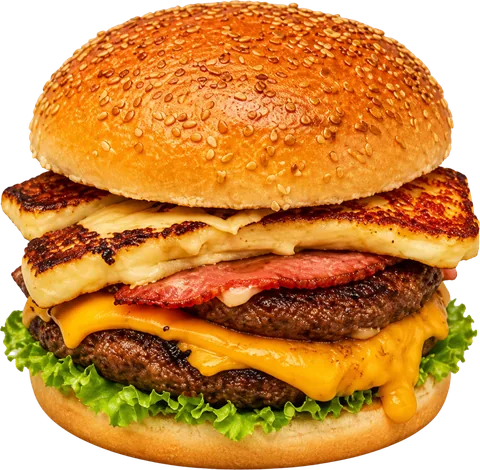
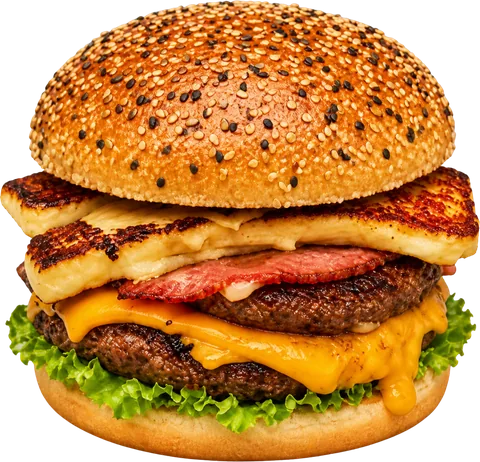
Pão com gergelim misto e Caixa Top com anéis de cebola
- Queijo Coalho e X-Montanha refeitos com o pão novo da Bel: gergelim
  misto, branco e preto, igual ao da Caixa Top.
- Caixa Top em "Como pedir": o compartimento do meio, que parecia
  salgadinho, agora mostra anéis de cebola.

Claude-Session: https://claude.ai/code/session_01JFe72xvUDKBtHamWgCjFaN

diff --git a/src/config.ts b/src/config.ts
@@ -43,10 +43,10 @@ export const site = {
 // steam: true mostra vapor subindo do lanche (só nos hambúrgueres).
 export const heroSlides = [
   { file: 'mega30', width: 900, height: 671, alt: 'Mega Hot Dog de 30cm: dois cachorros-quentes com calabresa, ovo de codorna, azeitona, milho e ervilha' },
-  { file: 'queijo-coalho', width: 900, height: 881, steam: true, alt: 'Hambúrguer com queijo coalho grelhado, bacon, cheddar e alface' },
+  { file: 'queijo-coalho', width: 900, height: 866, steam: true, alt: 'Hambúrguer com queijo coalho grelhado, bacon, cheddar e alface' },
   { file: 'combo-kids', width: 900, height: 823, alt: 'Combo Kids: hambúrguer, batata frita, refrigerante Guaracamp e bala Fini' },
   { file: 'polenguinho', width: 894, height: 900, steam: true, alt: 'Hambúrguer com bacon, calabresa, presunto, queijo, tomate, alface e batata palha' },
-  { file: 'montanha', width: 761, height: 900, steam: true, alt: 'X-Montanha: três hambúrgueres com ovo, queijo coalho e presunto' },
+  { file: 'montanha', width: 755, height: 900, steam: true, alt: 'X-Montanha: três hambúrgueres com ovo, queijo coalho e presunto' },
 ]
 
 export const mapsQuery = `${site.address.street.replace('Nº ', '')}, ${site.address.neighborhood}, ${site.address.city} - ${site.address.state}`

diff --git a/src/components/OrderMain.tsx b/src/components/OrderMain.tsx
@@ -25,9 +25,9 @@ export function OrderMain() {
             />
             <img
               src="/images/caixa-top.png"
-              alt="Caixa Top: batata com cheddar e bacon, nuggets, molho e três hambúrgueres"
+              alt="Caixa Top: batata com cheddar e bacon, anéis de cebola, molho e três hambúrgueres"
               width={900}
-              height={484}
+              height={496}
               loading="lazy"
               decoding="async"
               className="relative h-auto w-full drop-shadow-[0_24px_30px_rgb(0_0_0/0.55)]"
